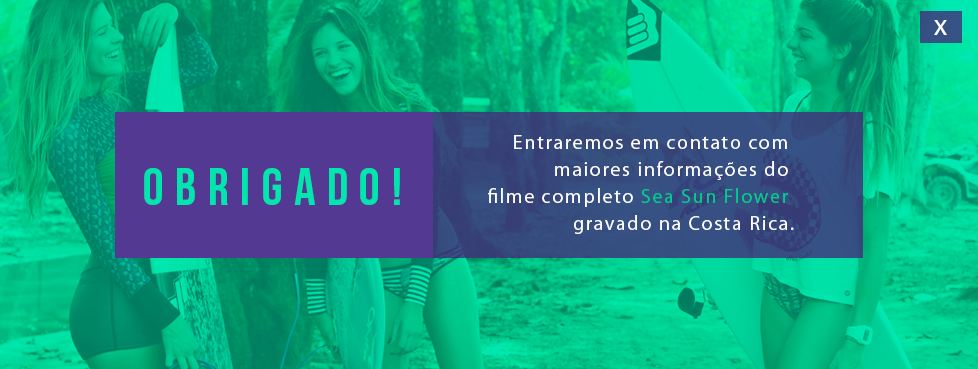
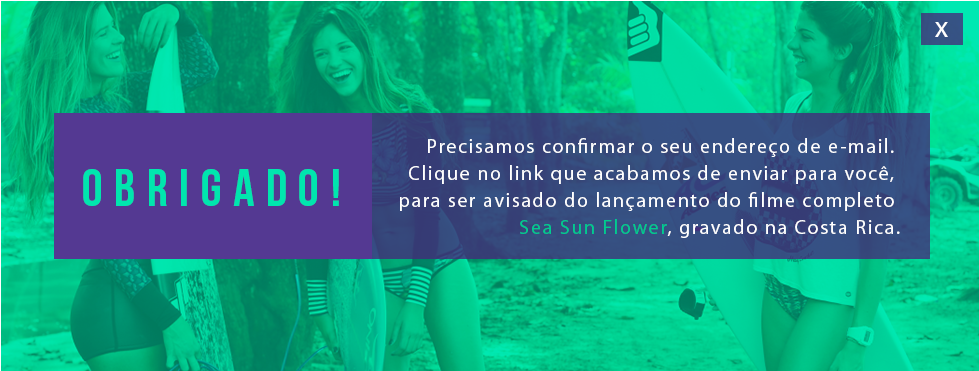
Correção no texto da popup e desenvolvimento da section premiers

diff --git a/css/site.css b/css/site.css
@@ -81,7 +81,7 @@
 
 .premiers-section {
     width: 100%;
-    padding: 393px 0;
+    height: 960px;
     color: #fff;
     background: url(../img/premiers.png) no-repeat center center scroll;
     background-color: #fff;
@@ -344,4 +344,86 @@ width: 175px !important;
 }
 :-ms-input-placeholder { /* Internet Explorer 10-11 */
    color:    #49287f;
+}
+
+
+.button-custom{
+    background-color: transparent;
+    border: none;
+    color: black;
+    font-size: 15px;
+    padding: 10px 20px 10px 20px;
+    font-family: "bebas_neuebold";
+    letter-spacing: 3px;
+    width: 100%;
+    height: 50px;
+    
+}
+.dir{
+    border-right: 0px solid #000;
+}
+
+.esq{
+    border-left: 0px solid #000;
+}
+
+
+
+.linha {
+    border-top: 1px solid #000!important;
+    padding-top: 2px;
+    padding-bottom: 4px;
+    margin: 0px auto;
+    width: 616px;
+}
+
+.table-pre{
+    border: 1px solid black;
+    border-collapse:collapse;
+    border-spacing:0;
+    margin: 4px auto;
+    width: 100%;
+    text-align: center;
+        font-family: "bebas_neuebold";
+    color: black;
+    letter-spacing: 3px;
+    border: 1px solid black;
+}
+
+.table-pre .titulo{
+    font-size: 30px;
+    border: 1px solid black;
+    padding: 10px 0px 10px 0px;
+}
+
+.table-pre .subtitulo{
+    border: 1px solid black;
+    font-size: 15px;
+}
+
+@media(min-width:768px) {
+    .button-custom{
+        width: 151px;
+    }
+    
+    .dir{
+        border-right: 1px solid #000;
+    }
+    
+    .esq{
+        border-left: 1px solid #000;
+    }
+
+    .table-pre{
+        border: 1px solid black;
+        border-collapse:collapse;
+        border-spacing:0;
+        margin: 4px auto;
+        width: 616px;
+        text-align: center;
+            font-family: "bebas_neuebold";
+        color: black;
+        letter-spacing: 3px;
+        border: 1px solid black;
+    }
 }

diff --git a/index.html b/index.html
@@ -217,8 +217,29 @@
     <section id="premiers" class="text-center">
         <div class="premiers-section">
             <div class="container">
-                <div class="col-lg-8 col-lg-offset-2">
+                <div class="col-md-12">
+                    <br>
+                    <div class="linha"></div>
+                    <button class="button-custom esq" type="button">Joinville</button>
+                    <button class="button-custom esq" type="button">Baneário Camboriu</button>
+                    <button class="button-custom esq" type="button">Florianópolis</button>
+                    <button class="button-custom esq dir" type="button">Floripa</button>
+                    <div class="linha"></div>
+                    <button class="button-custom esq" type="button">Curitiba</button>
+                    <button class="button-custom esq" type="button">Porto Alegre</button>
+                    <button class="button-custom esq" type="button">Rio de Janeiro</button>
+                    <button class="button-custom esq dir" type="button">São Paulo</button>
+                    
+                    <table class="table-pre">
+                        <tr>
+                            <td class="titulo">XX-XX-XXX | 19 hs</td>
+                        </tr>
+                        <tr>
+                            <td class="subtitulo">Espaço Surf - Curitiba- PR </td>
+                        </tr>
+                    </table>
                 </div>
+               
             </div>
         </div>
     </section>
